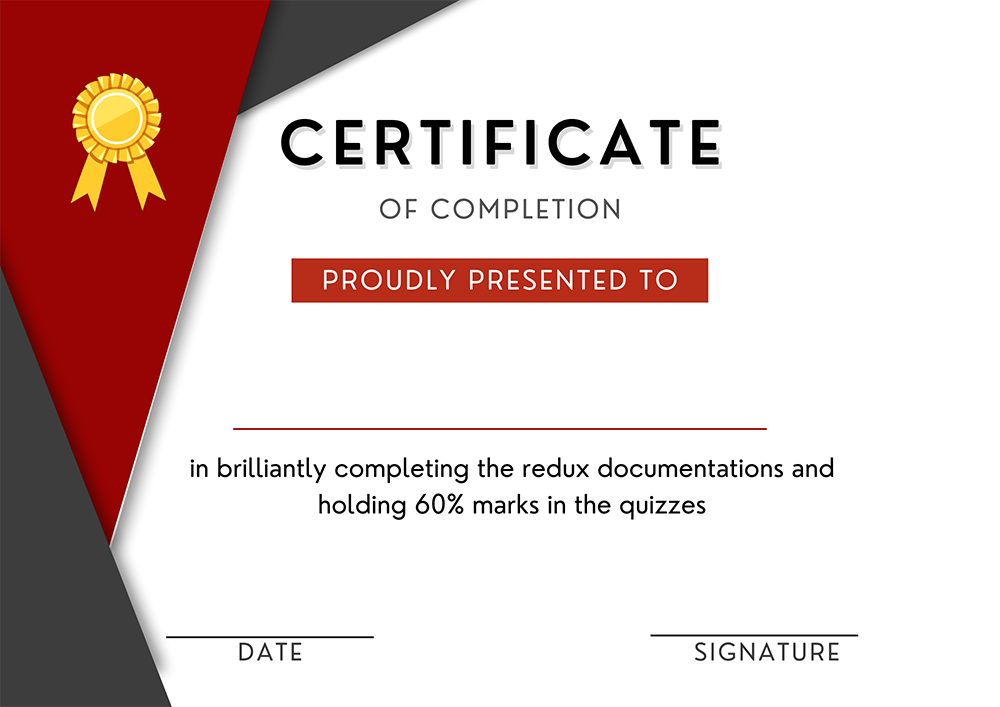
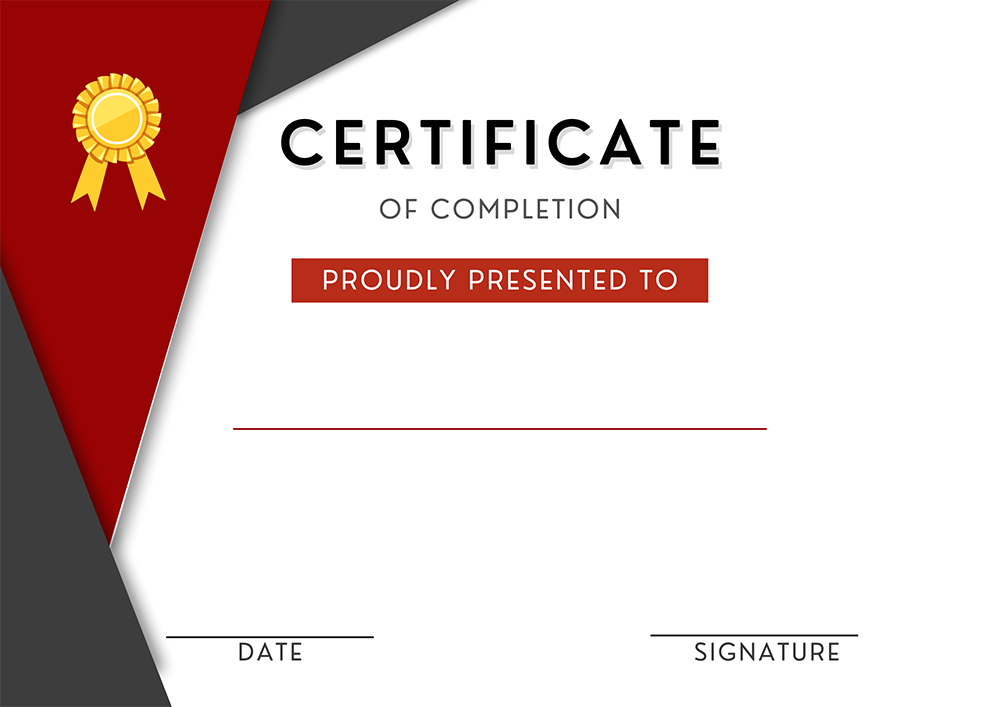
text is now from component

Changed region(s): [[0.186, 0.6535, 0.837, 0.7468]]

diff --git a/src/Component/Certificate/Certificate.js b/src/Component/Certificate/Certificate.js
@@ -22,7 +22,8 @@ const Certificate = () => {
         <div className='my-6'>
             <div className='overflow-auto touch-auto'>
                 <div id="certificateWrapper" ref={certificateWrapper} className='relative w-[1000px] mx-auto my-6 shadow-lg'>
-                    <p style={{left: '50%',transform: 'translate(-50%, 0)'}} className='certificate absolute top-[360px] text-5xl font-extrabold text-center'>{user?.displayName}</p>
+                    <p style={{left: '50%',transform: 'translate(-50%, 0)'}} className='certificate absolute top-[360px] text-5xl font-extrabold'>{user?.displayName}</p>
+                    <p style={{left: '50%',transform: 'translate(-50%, 0)'}} className='text-black absolute top-[450px] text-[25px] font-semibold text-center w-[630px]'>in brilliantly completing the redux documentations and holding 10% marks in the quizzes</p>
                     <p className='certificate absolute bottom-[75px] left-[200px] text-[22px] font-extrabold'>{moment().format('LL')}</p>
                     <p className='certificate absolute bottom-[75px] right-[200px] text-[22px] font-extrabold'>Authorities</p>
                     <img src={certificate} alt="Certificate" />
